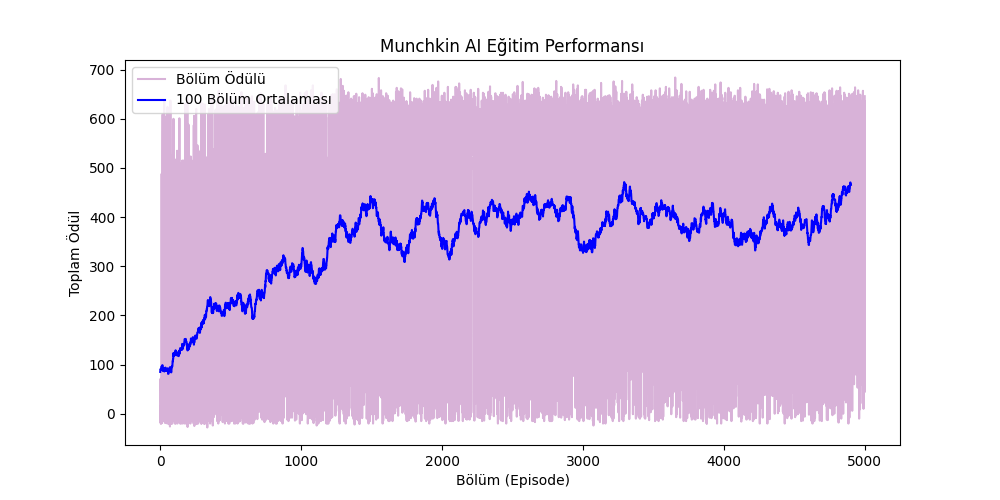
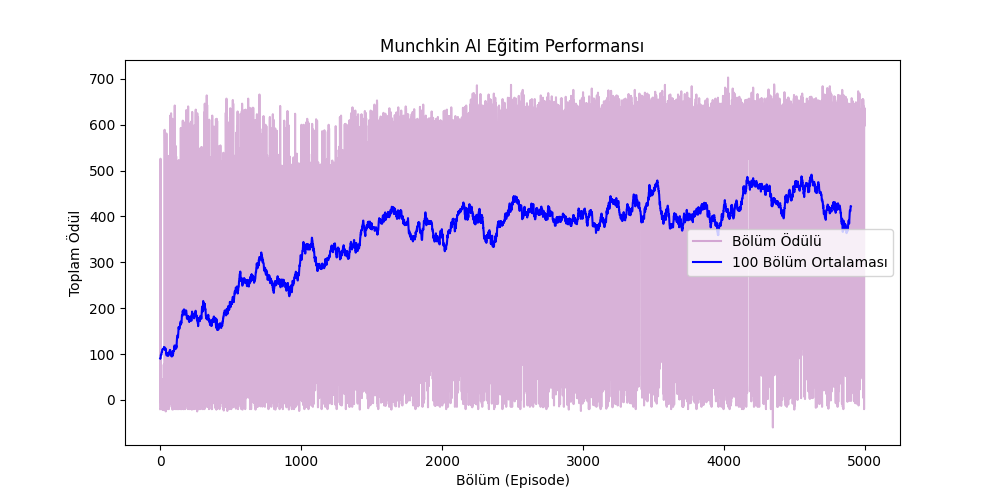
Arayüzde iyileştirme yapıldı.

diff --git a/static/index.html b/static/index.html
@@ -162,6 +162,21 @@
   .detail-val.neg  { color: var(--red2); }
   .detail-val.gold { color: var(--gold); }
 
+  .cards-panel {
+    background: var(--parch);
+    border: 2px solid var(--border);
+    border-radius: 4px;
+    padding: 12px;
+    box-shadow: inset 0 0 40px rgba(0,0,0,0.5), 0 4px 20px var(--shadow);
+    height: 162px !important;
+    min-height: 162px !important;
+    max-height: 162px !important;
+    overflow: hidden !important;
+    flex-shrink: 0 !important;
+    flex-grow: 0 !important;
+    box-sizing: border-box;
+  }
+
   .center-col { display: flex; flex-direction: column; gap: 12px; }
 
   .action-log {
@@ -182,17 +197,28 @@
   .rew-neg { color: var(--red2); }
 
   .cards-area {
-    display: flex; flex-wrap: wrap; gap: 6px;
-    justify-content: center; min-height: 80px; padding: 6px 0;
+    display: flex;
+    flex-wrap: nowrap;
+    gap: 6px;
+    overflow-x: auto;
+    overflow-y: hidden;
+    padding: 6px 2px;
+    align-items: center;
+    height: 116px;
+    min-height: 116px;
+    max-height: 116px;
   }
+  .cards-area::-webkit-scrollbar { height: 4px; }
+  .cards-area::-webkit-scrollbar-track { background: rgba(0,0,0,0.3); border-radius: 2px; }
+  .cards-area::-webkit-scrollbar-thumb { background: var(--border); border-radius: 2px; }
   .card {
-    width: 72px; min-height: 88px;
+    width: 72px; height: 100px; min-height: 100px; max-height: 100px;
     background: linear-gradient(160deg, #f6e0a0 0%, #d4a840 100%);
     border: 2px solid #8a6010; border-radius: 6px; padding: 6px 4px;
     text-align: center; color: #2a1800; font-size: 10px;
     display: flex; flex-direction: column; align-items: center; justify-content: space-around;
     box-shadow: 0 3px 8px rgba(0,0,0,0.6); animation: cardDrop 0.3s ease-out;
-    position: relative; cursor: default;
+    position: relative; cursor: default; flex-shrink: 0;
   }
   @keyframes cardDrop { from{transform:translateY(-20px);opacity:0} to{transform:translateY(0);opacity:1} }
   .card.upgrade { border-color: #00ffc8; box-shadow: 0 0 10px rgba(0,255,200,0.4), 0 3px 8px rgba(0,0,0,0.6); }
@@ -278,7 +304,43 @@
   .progress-track { height: 10px; background: rgba(0,0,0,0.5); border: 1px solid var(--border); border-radius: 5px; overflow: hidden; }
   .progress-fill  { height: 100%; background: linear-gradient(90deg, var(--gold2), var(--gold)); border-radius: 5px; transition: width 0.5s ease; }
 
-  ::-webkit-scrollbar       { width: 4px; }
+  .sparkline-wrap {
+    background: rgba(0,0,0,0.4); border: 1px solid var(--border);
+    border-radius: 3px; padding: 6px 8px; margin-top: 8px;
+  }
+  .sparkline-label { font-size: 10px; color: var(--dim); margin-bottom: 4px; letter-spacing: 1px; text-transform: uppercase; }
+  canvas#winChart { width: 100%; height: 40px; display: block; }
+
+  .action-stats {
+    display: flex; justify-content: space-around; gap: 4px;
+    background: rgba(0,0,0,0.3); border: 1px solid var(--border);
+    border-radius: 3px; padding: 6px 4px; margin-top: 4px;
+  }
+  .act-stat { text-align: center; }
+  .act-stat .av { font-family: 'Cinzel Decorative', serif; font-size: 15px; color: var(--gold); }
+  .act-stat .al { font-size: 9px; color: var(--dim); text-transform: uppercase; letter-spacing: 0.5px; }
+
+  .cards-panel-title {
+    font-family: 'Cinzel Decorative', serif;
+    color: var(--gold); font-size: 11px; letter-spacing: 2px;
+    text-align: center; margin-bottom: 8px; padding-bottom: 8px;
+    border-bottom: 1px solid var(--border); text-transform: uppercase;
+    display: flex; justify-content: space-between; align-items: center;
+  }
+  .card-count-badge {
+    background: rgba(240,192,64,0.15); border: 1px solid rgba(240,192,64,0.4);
+    color: var(--gold); font-size: 10px; padding: 1px 8px; border-radius: 10px;
+    font-family: 'Crimson Pro', serif;
+  }
+
+  .vs-bar-wrap { margin: 4px 0 8px; }
+  .vs-bar-track {
+    height: 8px; background: rgba(0,0,0,0.5); border: 1px solid var(--border);
+    border-radius: 4px; overflow: hidden; position: relative;
+  }
+  .vs-bar-hero    { position: absolute; left: 0; top: 0; height: 100%; background: linear-gradient(90deg,#4facfe,#00f2fe); border-radius: 4px 0 0 4px; transition: width 0.6s ease; }
+  .vs-bar-monster { position: absolute; right: 0; top: 0; height: 100%; background: linear-gradient(90deg,#ff9a3c,#ff416c); border-radius: 0 4px 4px 0; transition: width 0.6s ease; }
+  .vs-labels { display: flex; justify-content: space-between; font-size: 10px; color: var(--dim); margin-bottom: 2px; }
   ::-webkit-scrollbar-track { background: var(--dark); }
   ::-webkit-scrollbar-thumb { background: var(--border); border-radius: 2px; }
 </style>
@@ -357,10 +419,13 @@
 
     <div class="reward-flash" id="rewardFlash">⚡ Ödül: —</div>
 
-    <div class="panel" style="padding:12px">
-      <div class="panel-title" style="font-size:11px; margin-bottom:8px;">🎒 HAZİNE KARTLARI</div>
+    <div class="cards-panel">
+      <div class="cards-panel-title">
+        <span>🎒 Hazine Kartları</span>
+        <span class="card-count-badge" id="cardCountBadge">0 kart</span>
+      </div>
       <div class="cards-area" id="cardsArea">
-        <div style="color:var(--dim); font-style:italic; font-size:13px; align-self:center;">Henüz kart yok</div>
+        <div style="color:var(--dim); font-style:italic; font-size:13px; align-self:center; margin:auto;">Henüz kart yok</div>
       </div>
     </div>
 
@@ -381,6 +446,18 @@
       <div class="log-feed" id="logFeed">
         <div class="log-entry">Oyun başladı. Kapıyı tekmelemeye hazır...</div>
       </div>
+    </div>
+
+    <div class="action-stats">
+      <div class="act-stat"><div class="av" id="aAttack">0</div><div class="al">⚔️ Saldırı</div></div>
+      <div class="act-stat"><div class="av" id="aFlee">0</div><div class="al">🏃 Kaçış</div></div>
+      <div class="act-stat"><div class="av" id="aHelp">0</div><div class="al">🤝 Yardım</div></div>
+      <div class="act-stat"><div class="av" id="aLoot">0</div><div class="al">💎 Yağma</div></div>
+    </div>
+
+    <div class="sparkline-wrap">
+      <div class="sparkline-label">📈 Kazanma Oranı Trendi</div>
+      <canvas id="winChart" width="280" height="40"></canvas>
     </div>
 
   </div>
@@ -406,6 +483,13 @@
 
     <div style="text-align:center; margin: 8px 0;">
       <div style="font-family:'Cinzel Decorative',serif; font-size:28px; color:var(--gold); text-shadow: 0 0 20px rgba(240,192,64,0.5);">VS</div>
+      <div class="vs-bar-wrap">
+        <div class="vs-labels"><span>🧙 Kahraman</span><span>👹 Canavar</span></div>
+        <div class="vs-bar-track">
+          <div class="vs-bar-hero" id="vsBarHero" style="width:50%"></div>
+          <div class="vs-bar-monster" id="vsBarMon" style="width:50%"></div>
+        </div>
+      </div>
       <div id="vsResult" style="font-size:13px; color:var(--dim); margin-top:4px;">—</div>
     </div>
 
@@ -438,6 +522,8 @@
 let autoInterval = null;
 let isRunning    = false;
 const MAX_LOG    = 50;
+const winHistory = [];
+const actionCounts = { attack: 0, flee: 0, help: 0, loot: 0 };
 
 const speedSlider = document.getElementById('speedSlider');
 speedSlider.addEventListener('input', () => {
@@ -455,8 +541,50 @@ function getHeroEmoji(cls) {
   return CLASS_EMOJI[cls] || "⚔️";
 }
 
+function drawSparkline() {
+  const canvas = document.getElementById('winChart');
+  if (!canvas) return;
+  const ctx = canvas.getContext('2d');
+  const w = canvas.width, h = canvas.height;
+  ctx.clearRect(0, 0, w, h);
+  if (winHistory.length < 2) return;
+  const data = winHistory.slice(-40);
+  const step = w / (data.length - 1);
+  ctx.beginPath();
+  ctx.strokeStyle = '#f0c040';
+  ctx.lineWidth = 1.5;
+  ctx.shadowColor = 'rgba(240,192,64,0.4)';
+  ctx.shadowBlur = 4;
+  data.forEach((v, i) => {
+    const x = i * step;
+    const y = h - (v / 100) * h;
+    i === 0 ? ctx.moveTo(x, y) : ctx.lineTo(x, y);
+  });
+  ctx.stroke();
+  // Fill area
+  ctx.lineTo((data.length - 1) * step, h);
+  ctx.lineTo(0, h);
+  ctx.closePath();
+  ctx.fillStyle = 'rgba(240,192,64,0.08)';
+  ctx.fill();
+}
+
+function updateActionStats(actionId) {
+  if (actionId === 0) actionCounts.attack++;
+  else if (actionId === 1) actionCounts.flee++;
+  else if (actionId === 2 || actionId === 3) actionCounts.help++;
+  else actionCounts.loot++;
+  document.getElementById('aAttack').textContent = actionCounts.attack;
+  document.getElementById('aFlee').textContent   = actionCounts.flee;
+  document.getElementById('aHelp').textContent   = actionCounts.help;
+  document.getElementById('aLoot').textContent   = actionCounts.loot;
+}
+
+
 async function resetGame() {
   stopAuto();
+  actionCounts.attack = actionCounts.flee = actionCounts.help = actionCounts.loot = 0;
+  ['aAttack','aFlee','aHelp','aLoot'].forEach(id => document.getElementById(id).textContent = '0');
   const r = await fetch('/reset', { method: 'POST' });
   const d = await r.json();
   addLog("🔄 Yeni oyun başladı!");
@@ -484,7 +612,12 @@ async function playStep() {
     document.getElementById('sWR').textContent    = d.stats.win_rate;
     document.getElementById('sSteps').textContent = d.stats.total_steps;
     document.getElementById('sEps').textContent   = d.stats.epsilon?.toFixed(3) || '—';
+    document.getElementById('sQT').textContent    = d.stats.q_states || '—';
+    const wr = parseFloat(d.stats.win_rate);
+    if (!isNaN(wr)) { winHistory.push(wr); drawSparkline(); }
   }
+
+  updateActionStats(d.action_id);
 
   addLog(`[${d.step}] ${d.action} ${d.event || ''}`);
   updateUI(d.game_status);
@@ -561,8 +694,18 @@ function updateUI(gs) {
   else if (diff === 0) { vsEl.textContent = `⚖️ Eşit güç`; vsEl.style.color = '#f0c040'; }
   else { vsEl.textContent = `❌ Canavar önde (${diff})`; vsEl.style.color = '#e74c3c'; }
 
+  const totalPow = (gs.player_power + gs.monster_power) || 1;
+  const heroPct  = Math.round((gs.player_power / totalPow) * 100);
+  const monPct   = 100 - heroPct;
+  const vsHero = document.getElementById('vsBarHero');
+  const vsMon  = document.getElementById('vsBarMon');
+  if (vsHero) vsHero.style.width = heroPct + '%';
+  if (vsMon)  vsMon.style.width  = monPct  + '%';
+
   const ca = document.getElementById('cardsArea');
+  const badge = document.getElementById('cardCountBadge');
   if (gs.treasure_cards && gs.treasure_cards.length) {
+    if (badge) badge.textContent = gs.treasure_cards.length + ' kart';
     ca.innerHTML = gs.treasure_cards.map(c => `
       <div class="card ${c.is_best?'best':c.is_upgrade?'upgrade':''}">
         <div class="card-name">${c.name}</div>
@@ -571,7 +714,8 @@ function updateUI(gs) {
         ${c.is_upgrade ? `<div class="card-gain">+${c.gain}⬆</div>` : ''}
       </div>`).join('');
   } else {
-    ca.innerHTML = '<div style="color:var(--dim);font-style:italic;font-size:13px;align-self:center;">Kart yok</div>';
+    if (badge) badge.textContent = '0 kart';
+    ca.innerHTML = '<div style="color:var(--dim);font-style:italic;font-size:13px;align-self:center;margin:auto;">Kart yok</div>';
   }
 }
 